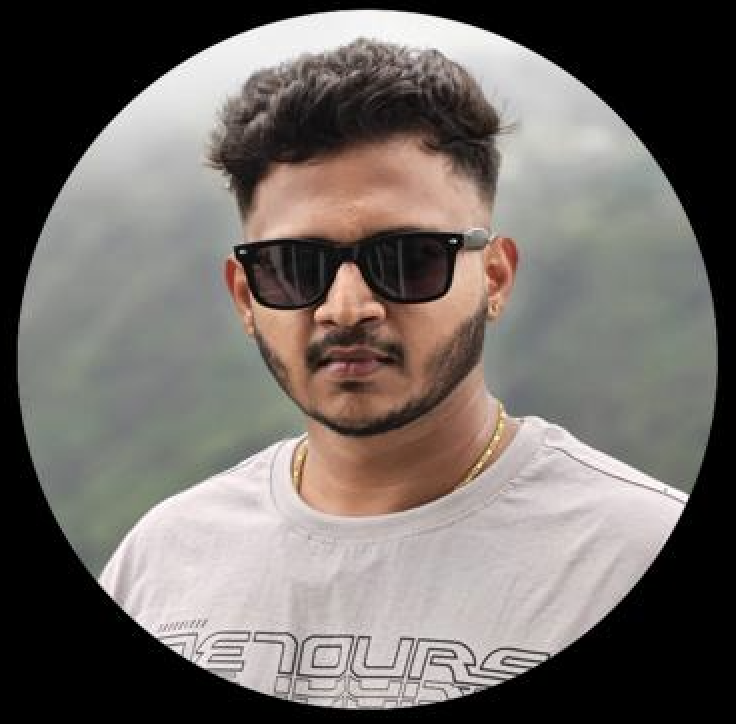
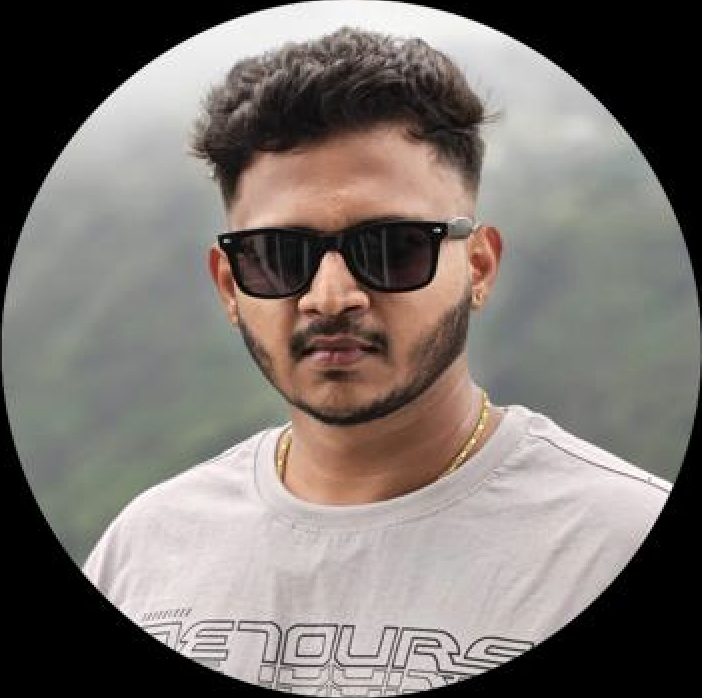
updated small photo for team member Kesava Senapathi

Changed region(s): [[0.0, 0.0, 1.0, 1.0], [0.4487, 0.7822, 0.4786, 0.8123]]

diff --git a/components/team/Team.jsx b/components/team/Team.jsx
@@ -28,7 +28,7 @@ const Team = () => {
       name: "~SENAPATHI KESAVA",
       role: "Chief Operations Officer & Co- Founder",
       photo: "/images/team/person5.png",
-      photoSmall: "/images/team/5.png",
+      photoSmall: "/images/team/1.png",
       brands: "",
       linkedinUrl: "https://www.linkedin.com/in/kesava-senapathi/",
       description:
